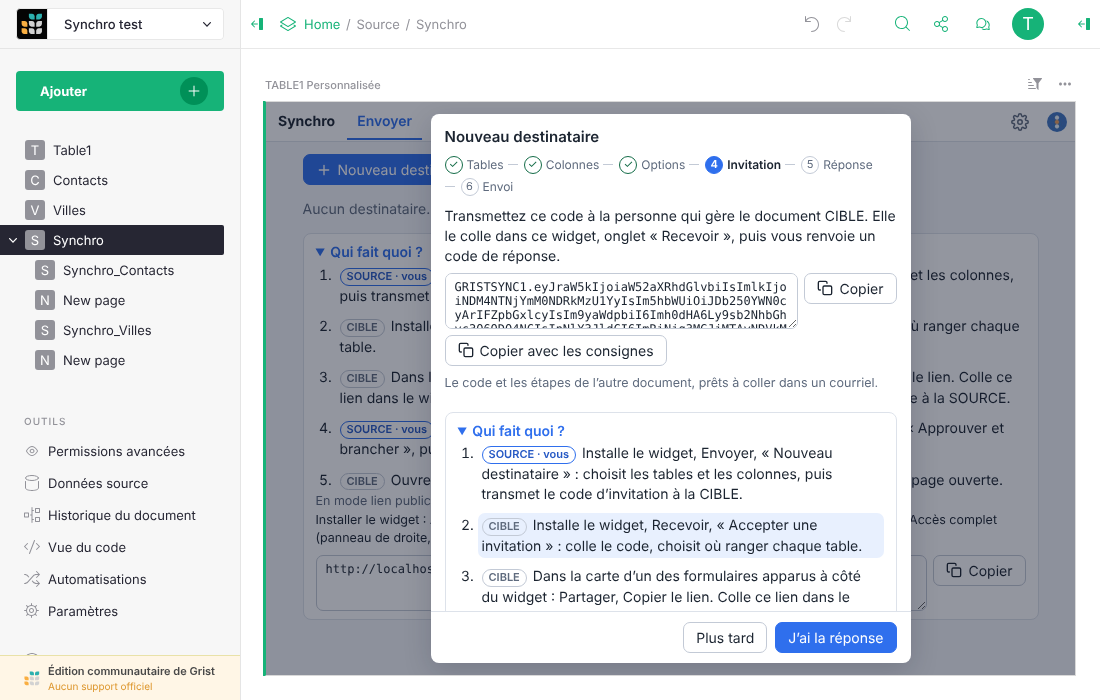
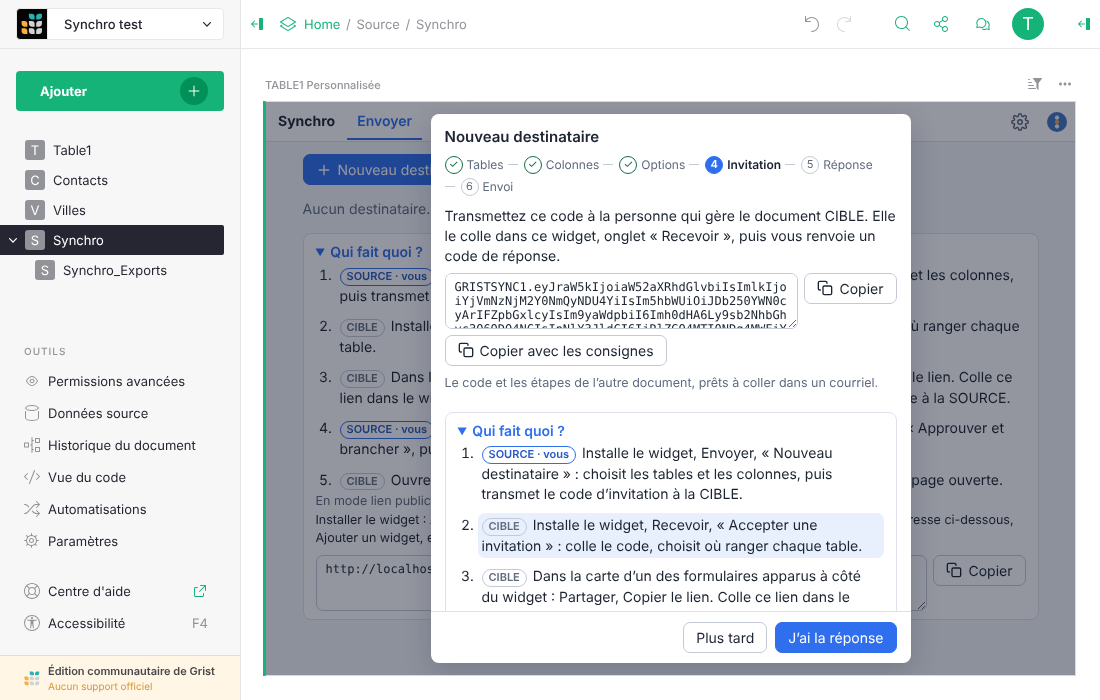
Tables techniques sans page : une seule page technique côté SOURCE, aucune côté CIBLE
Les tables listes et les journaux n'ont plus de page (ils restent dans « Données source ») ; les
vues d'export partagent une page Synchro_Exports, rangée sous la page du widget (une table de
résumé sans section est effacée par Grist). Les mises en place d'avant perdent ces pages à
l'ouverture du widget.

Claude-Session: https://claude.ai/code/session_019E1PnrKTYkZuTjbnC4apBs

diff --git a/js/tables.js b/js/tables.js
@@ -9,7 +9,9 @@ import {
   APPLIED_COL, AUTHOR_COL, DATA_COL, DELETE_COL, GROUP_COL, JOURNAL_PREFIX, KEY_COL, LIST_COL, ORDER_COL, RECEIVED_COL, SCHEMA_COL,
   STATE_COL, exportColumnsActions, exportFormula, exportSchema, exportTableId, listFormula, listTableId,
 } from './core.js';
-import { apply, fetchRows, hideColumn, readSchema, tidyPages, tuckUnderWidgetPage } from './grist.js';
+import {
+  EXPORTS_PAGE, apply, dropPages, exportsViewRef, fetchRows, hideColumn, readSchema, tidyPages, tuckUnderWidgetPage,
+} from './grist.js';
 
 export { JOURNAL_PREFIX };
 
@@ -33,7 +35,7 @@ export async function createListTable(tableId) {
       { id: SCHEMA_COL, type: 'Text', isFormula: false }]],
     ['AddRecord', id, null, {}],
   ]);
-  await tuckUnderWidgetPage([id]);
+  await dropPages([id]);
 }
 
 // Vue d'export de `tableId` (créée si besoin, rangée sous la page du widget) avec ces colonnes
@@ -44,9 +46,13 @@ export async function setExport(tableId, columns) {
   const schema = await readSchema();
   if (!schema.has(id)) {
     const key = schema.columns(tableId).find(c => c.colId === KEY_COL);
-    const created = (await apply([['CreateViewSection', schema.table(tableId).id, 0, 'record', [key.id], null]])).retValues[0];
+    const page = await exportsViewRef();
+    const created = (await apply([['CreateViewSection', schema.table(tableId).id, page, 'record', [key.id], null]])).retValues[0];
     await apply(exportColumnsActions(id));
-    await tuckUnderWidgetPage([], [created.viewRef]);
+    if (!page) {
+      await apply([['UpdateRecord', '_grist_Views', created.viewRef, { name: EXPORTS_PAGE }]]);
+      await tuckUnderWidgetPage([], [created.viewRef]);
+    }
   }
   const list = listTableId(tableId);
   const ids = (await fetchRows(list)).map(r => r.id);
@@ -112,7 +118,7 @@ export async function createReceivingTables({ journal, dest, columns, note, map 
   await apply(addDestColumnsActions(await readSchema(), dest, columns, map));
   await writeNote(await readSchema(), journal, note);
   await hideColumn(dest, KEY_COL);
-  await tuckUnderWidgetPage([journal]);
+  await dropPages([journal]);
 }
 
 // Note JSON dans la description de la colonne Synchro_Ids d'une table technique.

diff --git a/js/tutorial.js b/js/tutorial.js
@@ -15,13 +15,13 @@ const SECTIONS = [
       '1. Ajouter, puis Ajouter une page.',
       '2. Choisir la vue Personnalisée, avec n’importe quelle table, puis Ajouter une page.',
       '3. Cliquer « URL personnalisée », coller l’adresse du widget (onglet Tutoriel, en bas), puis Ajouter un widget. Grist peut demander de confirmer que vous faites confiance au widget.',
-      '4. Dans le panneau de droite, accepter l’accès complet au document. Renommer la page, par exemple « Synchro » : les tables techniques se rangeront dessous.',
+      '4. Dans le panneau de droite, accepter l’accès complet au document. Renommer la page, par exemple « Synchro ». Les tables techniques n’ont pas de page : elles sont dans « Données source ».',
     ], [
       'You need an owner of the SOURCE document and an editor of the TARGET document, on the same Grist instance. Each installs the widget in their document:',
       '1. Add, then Add page.',
       '2. Pick the Custom view, with any table, then Add page.',
       '3. Click “Custom URL”, paste the widget address (Tutorial tab, at the bottom), then Add widget. Grist may ask you to confirm you trust the widget.',
-      '4. In the right panel, accept full access to the document. Rename the page, for example “Sync”: technical tables are tucked under it.',
+      '4. In the right panel, accept full access to the document. Rename the page, for example “Sync”. Technical tables have no page: they are in “Raw data”.',
     ]],
     images: ['00a-installer-ajouter', '00b-installer-page', '00c-installer-url', '00d-installer-acces', '01-accueil'] },
   { id: 's-tables', role: 'source',

diff --git a/js/grist.js b/js/grist.js
@@ -170,6 +170,24 @@ export async function tidyPages(viewRefs) {
   if (actions.length) await apply(actions);
 }
 
+// Tables techniques sans page : elles restent dans « Données source », pas dans la liste des
+// pages. Seule la page propre à la table est retirée (celle qui ne montre qu'elle). Une table de
+// résumé ne peut pas perdre sa dernière section (Grist l'efface avec) : voir `exportsViewRef`.
+export async function dropPages(tableIds) {
+  const [tables, sections] = await Promise.all([fetchRows('_grist_Tables'), fetchRows('_grist_Views_section')]);
+  const views = tables.filter(tb => tableIds.includes(tb.tableId) && tb.primaryViewId).filter(tb =>
+    sections.filter(s => s.parentId === tb.primaryViewId).every(s => s.tableRef === tb.id)).map(tb => tb.primaryViewId);
+  if (views.length) await apply(views.map(v => ['RemoveView', v]));
+}
+
+// Page commune aux vues d'export (SOURCE), rangée sous la page du widget : une page, quel que soit
+// le nombre de tables envoyées. 0 si elle n'existe pas encore.
+export const EXPORTS_PAGE = 'Synchro_Exports';
+export async function exportsViewRef() {
+  const view = (await fetchRows('_grist_Views')).find(v => v.name === EXPORTS_PAGE);
+  return view ? view.id : 0;
+}
+
 // Range les pages de ces tables sous la page du widget, à la fin de ses sous-pages, et replie
 // celle-ci par défaut : les tables techniques ne s'empilent pas dans la liste des pages.
 // `viewRefs` : autres pages à ranger (celle d'une vue d'export, qui n'est pas une page principale).

diff --git a/js/target.js b/js/target.js
@@ -5,7 +5,7 @@ import {
   APPLIED_COL, AUTHOR_COL, KEY_COL, LIST_COL, buildReply, buildWebhookUrl, copyColumns, expandRows, parseFormLink, parseInvitation,
   exportTableId, listTableId, planConsolidation, planPull, planPurge, recentChanges, sentColumns, toTableId,
 } from './core.js';
-import { apply, collapseForms, docIdentity, ensureForm, fetchRows, formPages, readSchema } from './grist.js';
+import { apply, collapseForms, docIdentity, dropPages, ensureForm, fetchRows, formPages, readSchema } from './grist.js';
 import {
   JOURNAL_PREFIX, addDestColumnsActions, createReceivingTables, destColumns, readNote, receivedTables, removeTechnicalTables,
   upgradeJournal, writeNote,
@@ -178,6 +178,8 @@ export async function renderTarget(root = container) {
     roleGuide({ you: 'target', open: !cards.length })].filter(Boolean));
   // Les journaux qui reçoivent déjà n'ont plus besoin de leur formulaire à l'écran.
   if (!readOnly) collapseForms(groups.filter(g => !g.waiting).flatMap(g => g.pairs.map(p => p.journal))).catch(() => {});
+  // Mises en place d'avant : les journaux perdent leur page (ils restent dans les données).
+  if (!readOnly) dropPages(groups.flatMap(g => g.pairs.map(p => p.journal))).catch(() => {});
   const waiting = groups.find(g => g.waiting);
   if (waiting && !readOnly && !wizardOpened) {
     wizardOpened = true;

diff --git a/js/source.js b/js/source.js
@@ -6,7 +6,7 @@ import {
   PUBLIC_MEMO, maskKey, masterTableId, missingSyncColumns, parseReply, parseWebhookUrl, prepareSourceActions, publicAclActions,
 } from './core.js';
 import {
-  apply, clearWebhookQueue, createWebhook, deleteWebhook, docIdentity, fetchRows, listWebhooks, readSchema,
+  apply, clearWebhookQueue, createWebhook, deleteWebhook, docIdentity, dropPages, fetchRows, listWebhooks, readSchema,
   setWebhookEnabled,
 } from './grist.js';
 import {
@@ -105,6 +105,8 @@ export async function renderSource(root = container) {
   // général posé par le widget reste en place, même sans partage.
   const open = await isPublic((await grist.docApi.getAccessToken({ readOnly: true })).baseUrl);
   if (!ownerOnly) await syncPublicRules(shares, open);
+  // Mises en place d'avant : les tables listes perdent leur page (elles restent dans les données).
+  if (!ownerOnly) await dropPages(tables.map(listTableId)).catch(() => {});
 
   const out = el('div', { class: 'out' });
   const toolbar = el('div', { class: 'toolbar' },

diff --git a/docs/04-tutoriel.md b/docs/04-tutoriel.md
@@ -28,7 +28,8 @@ courriel.
 **Ajouter**, **Ajouter une page**, vue **Personnalisée** (n'importe quelle table), **Ajouter une
 page** ; **URL personnalisée**, coller l'adresse du widget, **Ajouter un widget** (Grist peut
 demander de confirmer) ; dans le panneau de droite, accepter l'**accès complet**. Renommer la
-page, par exemple « Synchro » : les tables techniques se rangeront dessous, repliées.
+page, par exemple « Synchro ». Les tables techniques n'ont pas de page (elles sont dans « Données
+source ») ; côté SOURCE, une seule page `Synchro_Exports` se range sous celle du widget.
 
 ![Ajouter une page](images/00a-installer-ajouter.png)
 ![Vue Personnalisée](images/00b-installer-page.png)
@@ -107,7 +108,7 @@ Ici, `Ville` va dans `Commune`, et Lyon, déjà là avec une note, est rattaché
 
 ![Colonnes de la table existante](images/08b-cible-colonnes.png)
 
-Le widget crée un `Journal_<table>` par table (rangé sous sa page) et publie sur sa page un
+Le widget crée un `Journal_<table>` par table (sans page, dans « Données source ») et publie sur sa page un
 formulaire de réception par journal. Grist recharge alors le widget : l'assistant se rouvre seul
 à l'étape suivante.
 

diff --git a/CLAUDE.md b/CLAUDE.md
@@ -138,3 +138,8 @@ Effacer une table efface ses sections, mais pas leurs cases dans `layoutSpec` (r
 les numéros de sections sont réutilisés ensuite) ni le partage de la page (`_grist_Pages.shareRef`
 et `_grist_Shares`, donc la clé d'écriture). `tidyPages` nettoie les deux après
 `removeTechnicalTables`.
+
+Pages : les tables techniques n'ont pas de page (`dropPages`, « Données source » seulement), sauf
+la page commune `Synchro_Exports` des vues d'export : Grist efface une table de résumé dont la
+dernière section disparaît (vérifié). Créer une section sur une autre page que celle du widget ne
+recharge pas le widget.

diff --git a/README.md b/README.md
@@ -67,7 +67,9 @@ visite (20 au plus), synchronisation immédiate, arrêt de la réception.
 
 ## Ce que le widget écrit dans les documents
 
-Ses tables techniques sont rangées sous la page du widget, repliée par défaut. Pas de table de
+Ses tables techniques n'ont pas de page : elles ne se voient que dans « Données source ». Seule
+exception, côté SOURCE, une page `Synchro_Exports` rangée sous la page du widget porte les vues
+d'export (Grist efface une table de résumé qui n'est plus montrée nulle part). Pas de table de
 réglages.
 
 | Document | Ajouts |
